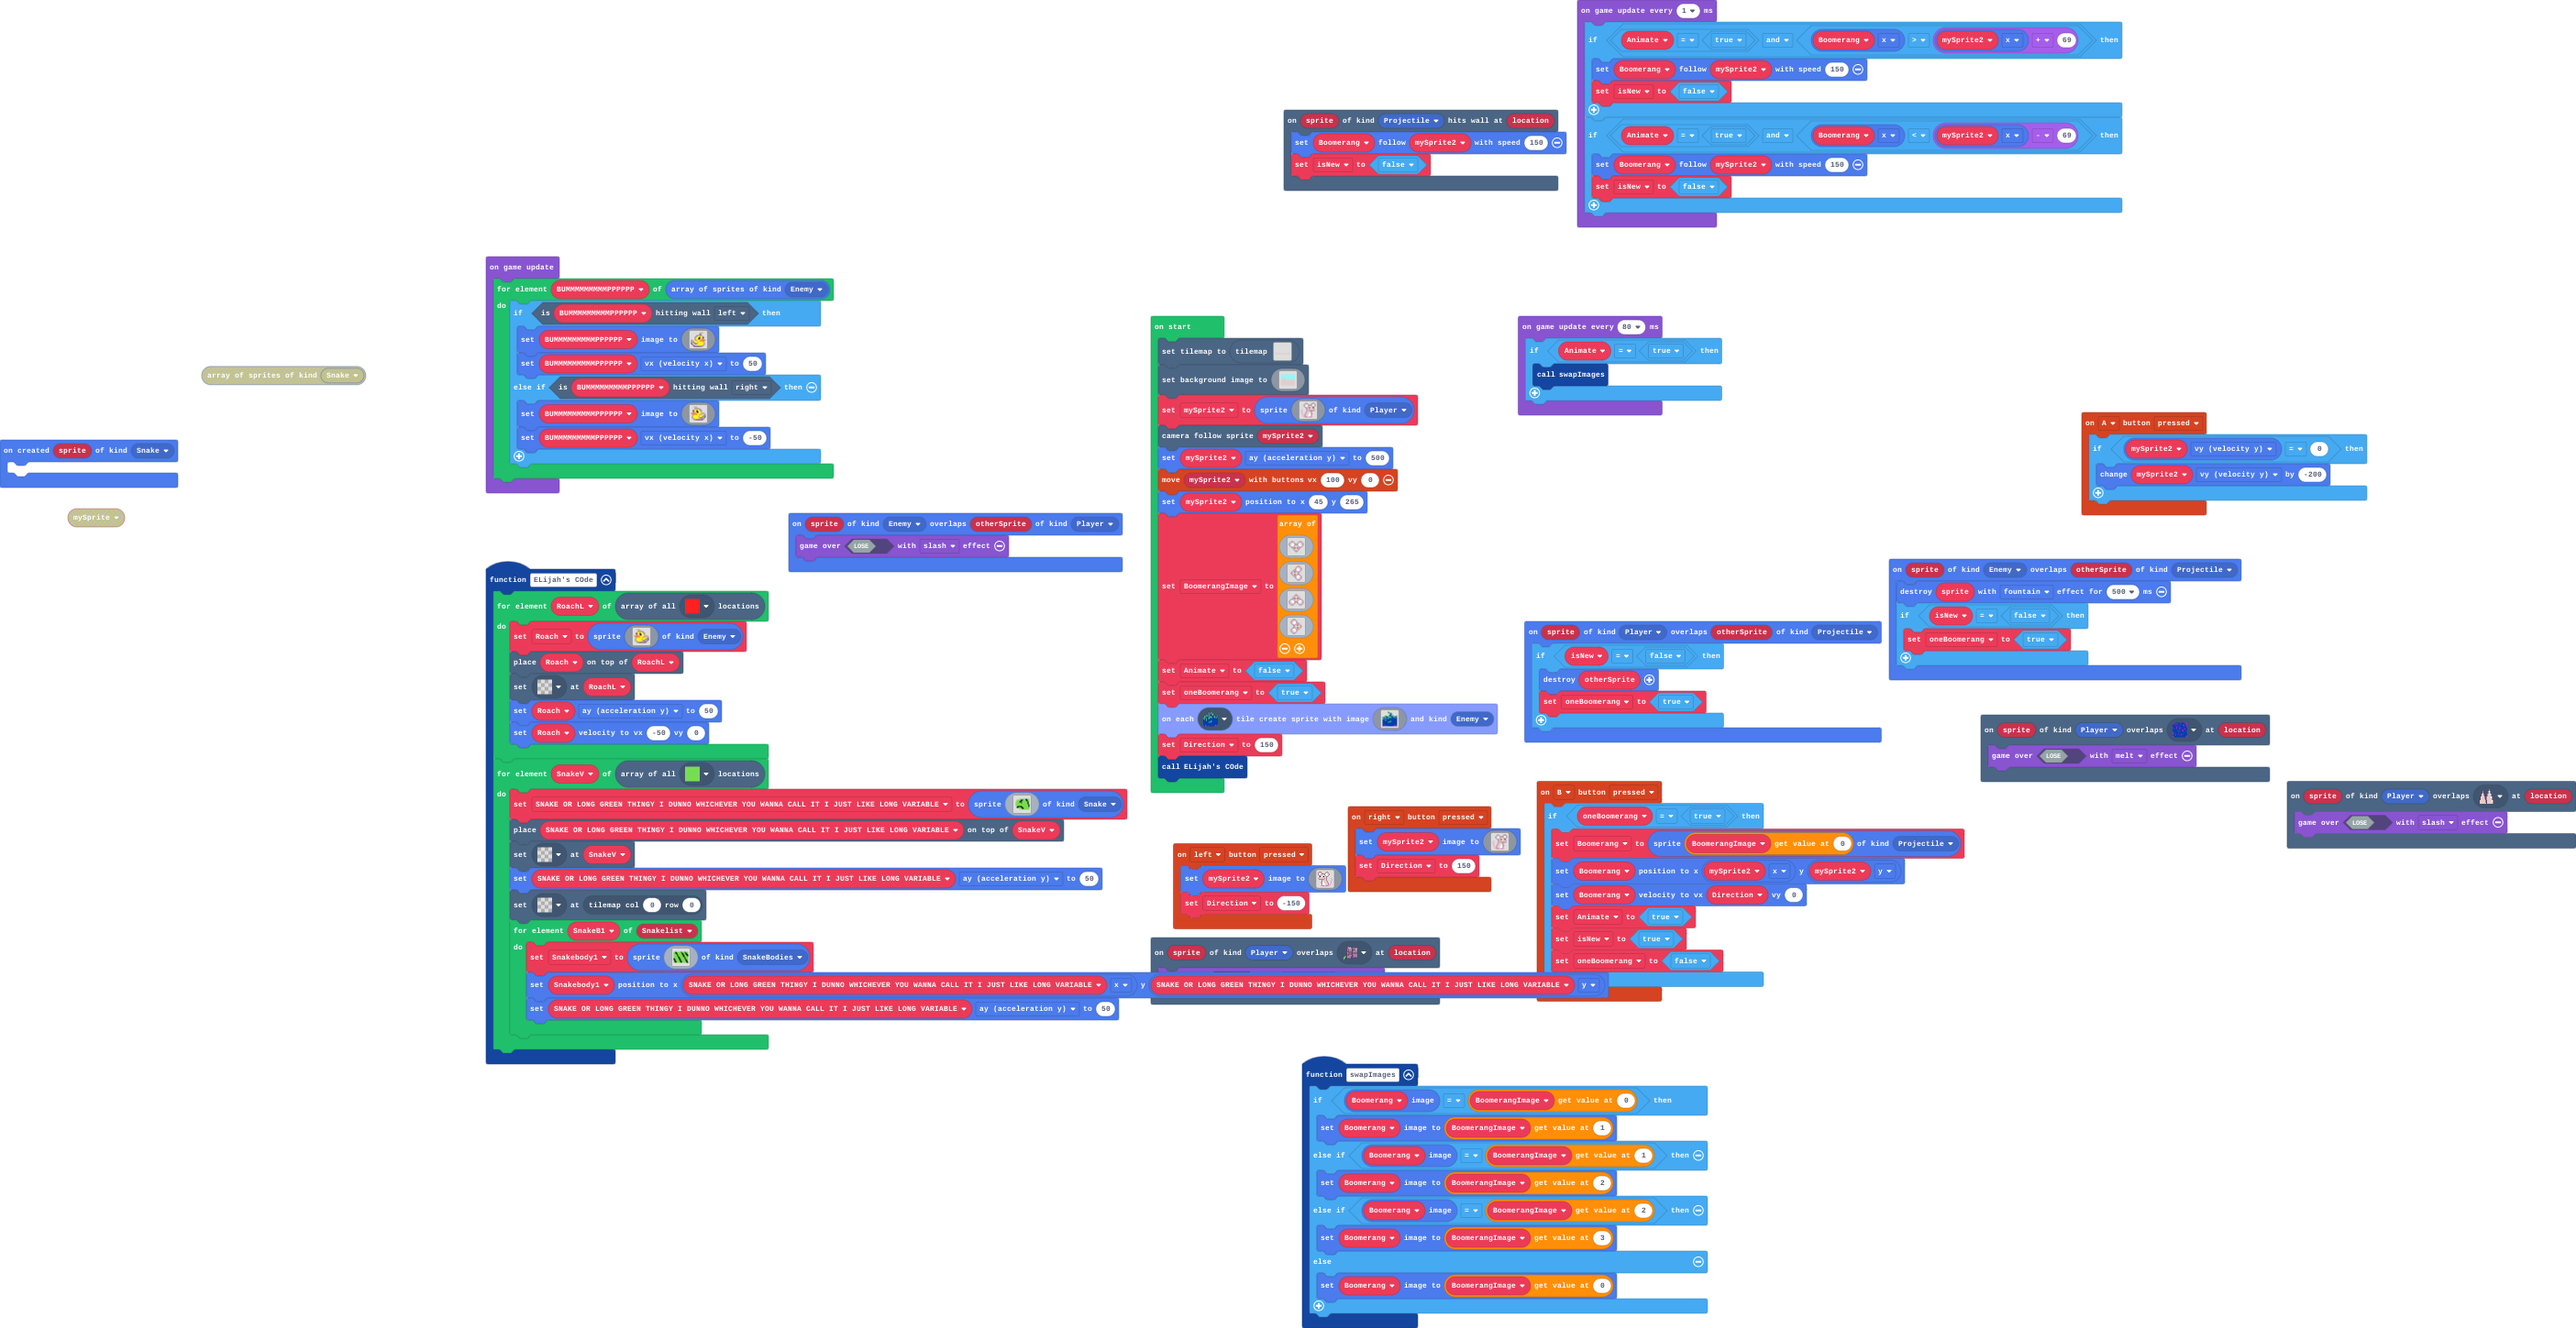
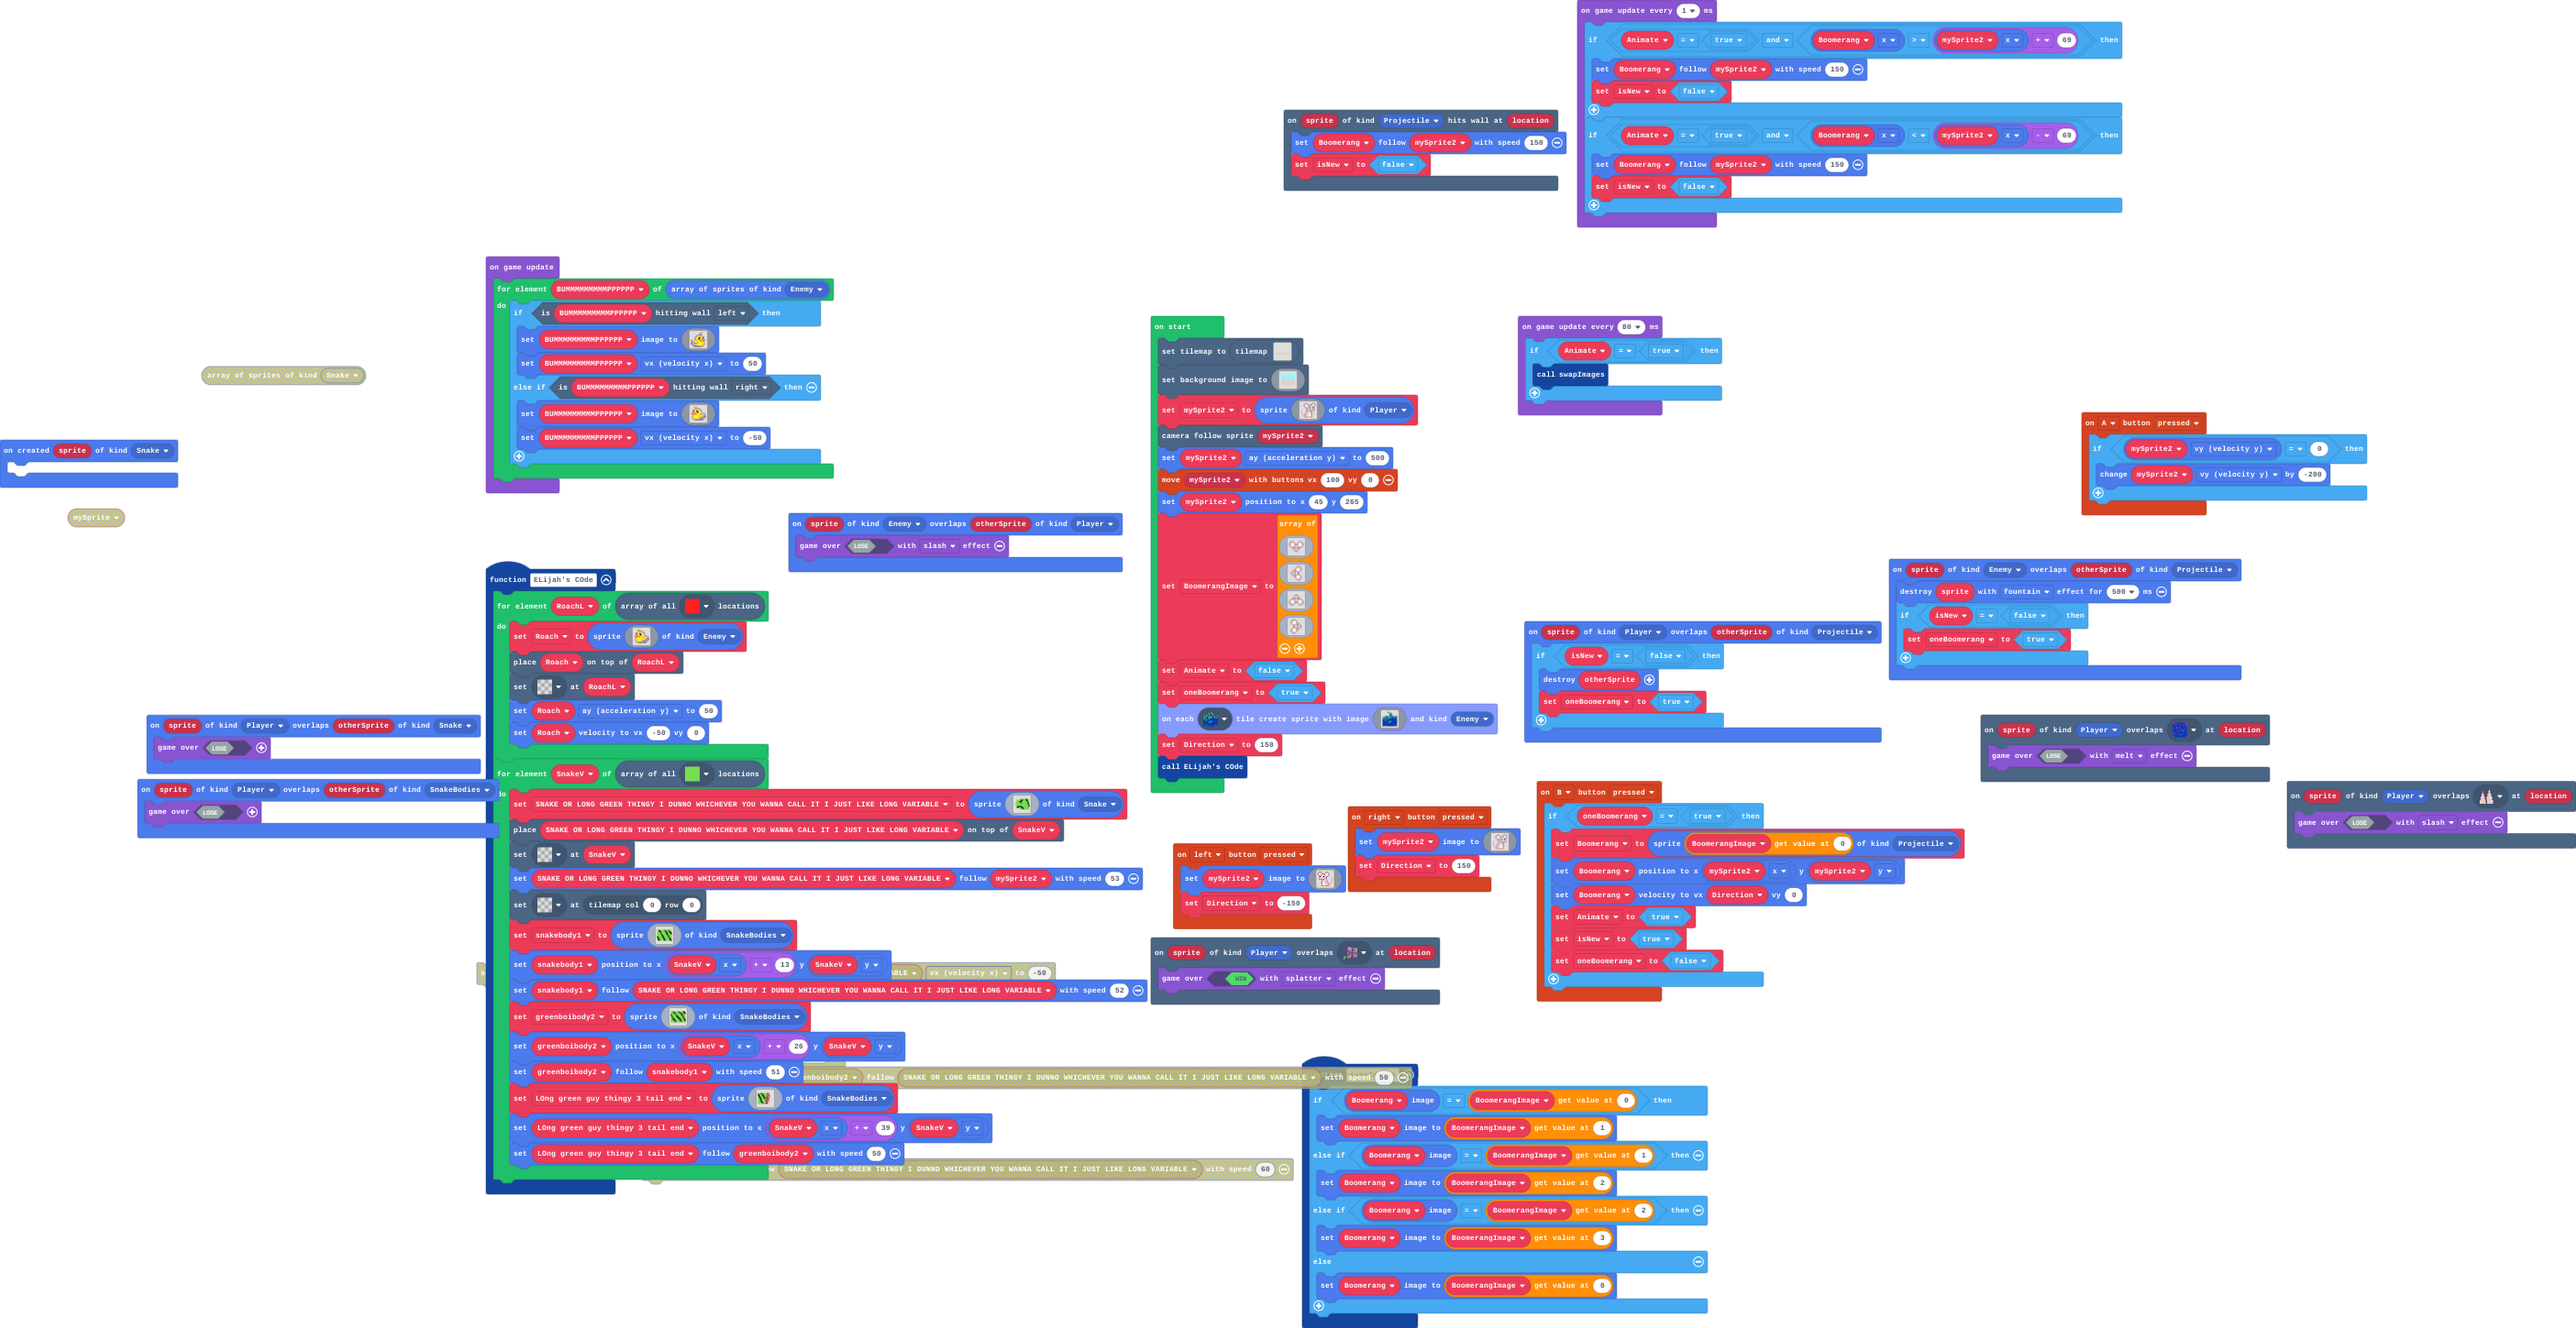
Update main.blocks, main.ts, tilemap.g.jres, tilemap.g.ts, images.g.jres, images.g.ts

Changed region(s): [[0.1858, 0.6832, 0.6194, 0.9006], [0.031, 0.528, 0.2168, 0.6522], [0.3717, 0.6522, 0.4646, 0.6832]]

diff --git a/tilemap.g.ts b/tilemap.g.ts
@@ -24,6 +24,8 @@ namespace myTiles {
     export const tile10 = image.ofBuffer(hex``);
     //% fixedInstance jres blockIdentity=images._tile
     export const tile11 = image.ofBuffer(hex``);
+    //% fixedInstance jres blockIdentity=images._tile
+    export const tile12 = image.ofBuffer(hex``);
 
     helpers._registerFactory("tilemap", function(name: string) {
         switch(helpers.stringTrim(name)) {
@@ -69,6 +71,29 @@ namespace myTiles {
 22222222222222222222222222222222222222222222222222
 22222222222222222222222222222222222222222222222222
 `, [myTiles.transparency16,sprites.dungeon.floorLight0,sprites.dungeon.floorLight1,sprites.dungeon.floorLight4,myTiles.tile3,sprites.dungeon.floorLightMoss,sprites.dungeon.floorLight5,myTiles.tile7], TileScale.Sixteen);
+            case "level0":
+            case "level3":return tiles.createTilemap(hex`3200140000000000000000000000000000000000000000000000000000000000000000000000000000000000000000000000000000000000000000000000000000000000000000000000000000000000000000000000000000000000000000000000000000000000000000000000000000000000000000000000000000000000000000000000000000000000000000000000000000000000000000000000000000000000000000000000000000000000000000000000000000000000000000000000000000000000000000000000000000000000000000000000000000000000000000000000000000000000000000000000000000000000000000000000000000000000000000000000000000000000000000000000000000000000000000000000000000000000000000000000000000000000000000000000000000000000000000000000000000000000000000000000000000000000000000000000000000000000000000000000000000000000000000000000000000000000000000000000000000000000000000000000000000000000000000000000000000000000000000000000000000000000000000000000000000000000000000000000000000000000000000000000000000000000000000000000000000000000000000000000000000000000000000000000000000000000000000000000000000000000000000000000000000000000000000000000000000000000000000000000000000000000000000000000000000000000000000000000000000000000000000000000000000000000000000000000000000000000000000000000000000000000000000000000000000000000000000000000000000000000000000000000000000000000000000000000000000000000000000000000000000000000000000000000000000000000000000000000000000000000000000000000000000000000000000000000000000000000000000000000000000000000000000000000000000000000000000000000000000000000000000000000000000000000000000000000000000000000000000000000000000000000000000000000000000000000000000000000000000000000000000000000000007000000000000000000000000000000000000000000000000000000000000000004010201030203020201020203030106010101010201010101010101010101010101010101010102010101010101010203010102020203020303030101020301010202020303030302030202020501010101010101010101010203030102030302010302010202020102010201020203020203010201030201010303010102010101010101010101010101020301030301020301010101`, img`
+..................................................
+..................................................
+..................................................
+..................................................
+..................................................
+..................................................
+..................................................
+..................................................
+..................................................
+..................................................
+..................................................
+..................................................
+..................................................
+..................................................
+..................................................
+..................................................
+..................................................
+22222222222222222222222222222222222222222222222222
+22222222222222222222222222222222222222222222222222
+22222222222222222222222222222222222222222222222222
+`, [myTiles.transparency16,sprites.dungeon.floorLight0,sprites.dungeon.floorLight1,sprites.dungeon.floorLight4,myTiles.tile3,sprites.dungeon.floorLightMoss,sprites.dungeon.floorLight5,myTiles.tile12], TileScale.Sixteen);
         }
         return null;
     })
@@ -98,6 +123,8 @@ namespace myTiles {
             case "tile10":return tile10;
             case "GoodWater":
             case "tile11":return tile11;
+            case "Sign":
+            case "tile12":return tile12;
         }
         return null;
     })

diff --git a/main.ts b/main.ts
@@ -2,7 +2,9 @@ namespace SpriteKind {
     export const Snake = SpriteKind.create()
     export const SnakeBodies = SpriteKind.create()
 }
-let Snakelist: number[] = []
+sprites.onOverlap(SpriteKind.Player, SpriteKind.Snake, function (sprite, otherSprite) {
+    game.over(false)
+})
 scene.onOverlapTile(SpriteKind.Player, assets.tile`BadWater`, function (sprite, location) {
     game.over(false, effects.melt)
 })
@@ -18,6 +20,9 @@ controller.B.onEvent(ControllerButtonEvent.Pressed, function () {
         isNew = true
         oneBoomerang = false
     }
+})
+sprites.onOverlap(SpriteKind.Player, SpriteKind.SnakeBodies, function (sprite, otherSprite) {
+    game.over(false)
 })
 controller.A.onEvent(ControllerButtonEvent.Pressed, function () {
     if (mySprite2.vy == 0) {
@@ -61,6 +66,10 @@ sprites.onOverlap(SpriteKind.Enemy, SpriteKind.Player, function (sprite, otherSp
 scene.onOverlapTile(SpriteKind.Player, assets.tile`Spikes`, function (sprite, location) {
     game.over(false, effects.slash)
 })
+sprites.onOverlap(SpriteKind.Player, SpriteKind.Food, function (sprite, otherSprite) {
+    pause(250)
+    Text += 1
+})
 scene.onHitWall(SpriteKind.Projectile, function (sprite, location) {
     Boomerang.follow(mySprite2, 150)
     isNew = false
@@ -80,16 +89,22 @@ function ELijahs_COde () {
         SNAKE_OR_LONG_GREEN_THINGY_I_DUNNO_WHICHEVER_YOU_WANNA_CALL_IT_I_JUST_LIKE_LONG_VARIABLE = sprites.create(assets.image`Snake Head`, SpriteKind.Snake)
         tiles.placeOnTile(SNAKE_OR_LONG_GREEN_THINGY_I_DUNNO_WHICHEVER_YOU_WANNA_CALL_IT_I_JUST_LIKE_LONG_VARIABLE, SnakeV)
         tiles.setTileAt(SnakeV, assets.tile`transparency16`)
-        SNAKE_OR_LONG_GREEN_THINGY_I_DUNNO_WHICHEVER_YOU_WANNA_CALL_IT_I_JUST_LIKE_LONG_VARIABLE.ay = 50
+        SNAKE_OR_LONG_GREEN_THINGY_I_DUNNO_WHICHEVER_YOU_WANNA_CALL_IT_I_JUST_LIKE_LONG_VARIABLE.follow(mySprite2, 53)
         tiles.setTileAt(tiles.getTileLocation(0, 0), assets.tile`transparency16`)
-        for (let SnakeB1 of Snakelist) {
-            Snakebody1 = sprites.create(assets.image`Greenthing body 1`, SpriteKind.SnakeBodies)
-            Snakebody1.setPosition(SNAKE_OR_LONG_GREEN_THINGY_I_DUNNO_WHICHEVER_YOU_WANNA_CALL_IT_I_JUST_LIKE_LONG_VARIABLE.x, SNAKE_OR_LONG_GREEN_THINGY_I_DUNNO_WHICHEVER_YOU_WANNA_CALL_IT_I_JUST_LIKE_LONG_VARIABLE.y)
-            SNAKE_OR_LONG_GREEN_THINGY_I_DUNNO_WHICHEVER_YOU_WANNA_CALL_IT_I_JUST_LIKE_LONG_VARIABLE.ay = 50
-        }
+        snakebody1 = sprites.create(assets.image`Greenthing body 1`, SpriteKind.SnakeBodies)
+        snakebody1.setPosition(SnakeV.x + 13, SnakeV.y)
+        snakebody1.follow(SNAKE_OR_LONG_GREEN_THINGY_I_DUNNO_WHICHEVER_YOU_WANNA_CALL_IT_I_JUST_LIKE_LONG_VARIABLE, 52)
+        greenboibody2 = sprites.create(assets.image`LOng boi 2`, SpriteKind.SnakeBodies)
+        greenboibody2.setPosition(SnakeV.x + 26, SnakeV.y)
+        greenboibody2.follow(snakebody1, 51)
+        LOng_green_guy_thingy_3_tail_end = sprites.create(assets.image`Long GReeennnn thingy tail`, SpriteKind.SnakeBodies)
+        LOng_green_guy_thingy_3_tail_end.setPosition(SnakeV.x + 39, SnakeV.y)
+        LOng_green_guy_thingy_3_tail_end.follow(greenboibody2, 50)
     }
 }
-let Snakebody1: Sprite = null
+let LOng_green_guy_thingy_3_tail_end: Sprite = null
+let greenboibody2: Sprite = null
+let snakebody1: Sprite = null
 let SNAKE_OR_LONG_GREEN_THINGY_I_DUNNO_WHICHEVER_YOU_WANNA_CALL_IT_I_JUST_LIKE_LONG_VARIABLE: Sprite = null
 let Roach: Sprite = null
 let isNew = false
@@ -236,7 +251,9 @@ assets.image`Ratarang4`
 Animate = false
 oneBoomerang = true
 tileUtil.createSpritesOnTiles(assets.tile`Sewage`, assets.image`Sewage Sprite`, SpriteKind.Enemy)
+tileUtil.createSpritesOnTiles(assets.tile`Sign`, assets.image`flor`, SpriteKind.Food)
 Direction = 150
+let Text = 0
 ELijahs_COde()
 game.onUpdate(function () {
     for (let BUMMMMMMMMMPPPPPP of sprites.allOfKind(SpriteKind.Enemy)) {
@@ -279,5 +296,9 @@ game.onUpdateInterval(1, function () {
     if (Animate == true && Boomerang.x < mySprite2.x - 69) {
         Boomerang.follow(mySprite2, 150)
         isNew = false
+    }
+    if (Text == 1) {
+        game.showLongText("fortnite", DialogLayout.Bottom)
+        Text += -1
     }
 })

diff --git a/images.g.ts b/images.g.ts
@@ -174,25 +174,6 @@ b 4 4 4 4 4 5 5 5 5 5 d b b b .
 . . . b b c c c c c c c c . . . 
 . . . . . . . . . . . . . . . . 
 `;
-            case "image12":
-            case "LOng boi 2":return img`
-. . . . . . . . . . . . . . . . 
-. . . . . . . . . . . . . . . . 
-7 7 f 7 7 7 7 7 f 7 7 7 7 f f 7 
-7 7 7 f f 7 7 7 7 f f 7 7 7 f f 
-7 7 7 7 f 7 7 7 7 7 7 f 7 7 7 f 
-f 7 7 7 7 f 7 7 7 7 7 f f 7 7 7 
-f 7 7 7 7 7 f 7 7 7 7 7 f 7 7 7 
-7 f 7 7 7 7 f f 7 7 7 7 7 f 7 7 
-7 f 7 7 7 7 7 f f 7 7 7 7 f 7 7 
-7 7 f 7 7 7 7 7 f f 7 7 7 7 f 7 
-7 7 f f 7 7 7 7 7 f f 7 7 7 f f 
-7 7 7 f f 7 7 7 7 7 f 7 7 7 7 f 
-7 7 7 7 f 7 7 7 7 7 f f 7 7 7 f 
-7 7 7 7 7 f 7 7 7 7 7 7 7 7 7 7 
-. . . . . . . . . . . . . . . . 
-. . . . . . . . . . . . . . . . 
-`;
             case "image10":
             case "Snake Head":return img`
 . . . . . . . . . . . . . . . . 
@@ -228,6 +209,25 @@ f f 7 7 7 7 f f 7 7 7 7 7 f 7 7
 7 f 7 7 7 7 7 f 7 7 7 7 7 f f 7 
 7 f f 7 7 7 7 f f 7 7 7 7 7 f 7 
 7 7 f 7 7 7 7 7 f 7 7 7 7 7 f f 
+. . . . . . . . . . . . . . . . 
+. . . . . . . . . . . . . . . . 
+`;
+            case "image12":
+            case "LOng boi 2":return img`
+. . . . . . . . . . . . . . . . 
+. . . . . . . . . . . . . . . . 
+7 7 f 7 7 7 7 7 f 7 7 7 7 f f 7 
+7 7 7 f f 7 7 7 7 f f 7 7 7 f f 
+7 7 7 7 f 7 7 7 7 7 7 f 7 7 7 f 
+f 7 7 7 7 f 7 7 7 7 7 f f 7 7 7 
+f 7 7 7 7 7 f 7 7 7 7 7 f 7 7 7 
+7 f 7 7 7 7 f f 7 7 7 7 7 f 7 7 
+7 f 7 7 7 7 7 f f 7 7 7 7 f 7 7 
+7 7 f 7 7 7 7 7 f f 7 7 7 7 f 7 
+7 7 f f 7 7 7 7 7 f f 7 7 7 f f 
+7 7 7 f f 7 7 7 7 7 f 7 7 7 7 f 
+7 7 7 7 f 7 7 7 7 7 f f 7 7 7 f 
+7 7 7 7 7 f 7 7 7 7 7 7 7 7 7 7 
 . . . . . . . . . . . . . . . . 
 . . . . . . . . . . . . . . . . 
 `;
